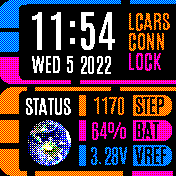
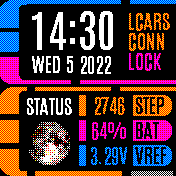
Show battery grey

diff --git a/apps/lcars/lcars.app.js b/apps/lcars/lcars.app.js
@@ -24,6 +24,7 @@ let cOrange = "#FF9900";
 let cPurple = "#FF00DC";
 let cWhite = "#FFFFFF";
 let cBlack = "#000000";
+let cGrey = "#9E9E9E";
 
 /*
  * Global lcars variables
@@ -240,7 +241,7 @@ function drawPosition0(){
   var bat = E.getBattery() / 100.0;
   var batX2 = parseInt((172 - 35) * bat + 35);
   drawHorizontalBgLine(cOrange, 35, batX2, 171, 5);
-  drawHorizontalBgLine(cPurple, batX2+10, 172, 171, 5);
+  drawHorizontalBgLine(cGrey, batX2+10, 172, 171, 5);
 
   // Draw logo
   drawLock();
